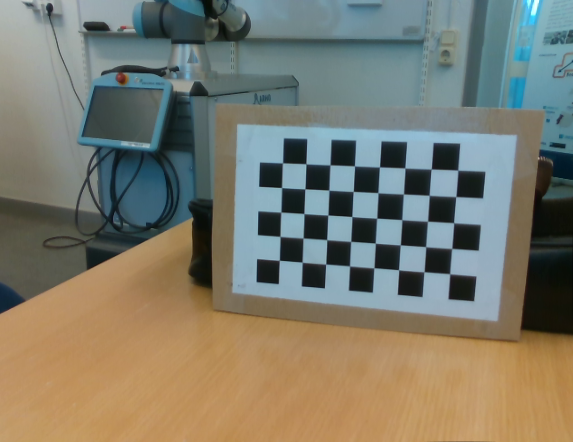
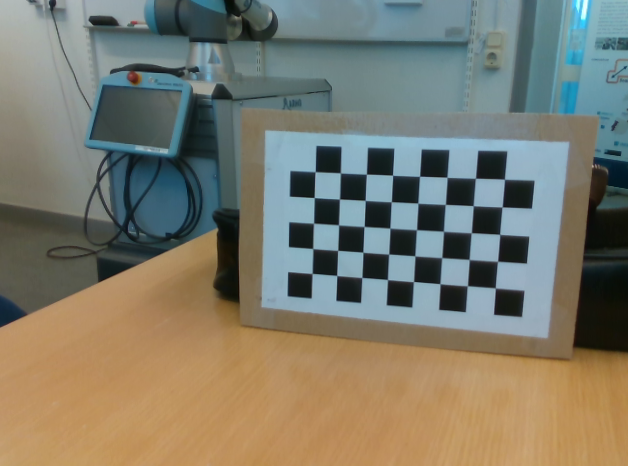
added calibration for 1920x1080 images

diff --git a/oskars_wacky_testbed/real_sense_camera/camera_calibration.py b/oskars_wacky_testbed/real_sense_camera/camera_calibration.py
@@ -5,42 +5,43 @@ import cv2
 import numpy as np
 from extract_realsense_parameters import ExtractParameters
 
+# lth board
+# chessboardSize = (5, 8)
+# size_of_chessboard_squares_mm = 20
 
-#lth board
-chessboardSize = (5,8)
-size_of_chessboard_squares_mm = 20
-
-# chessboardSize = (6,8)
-# size_of_chessboard_squares_mm = 15
-calib_data_path = "/home/oskarlarsson/Documents/Programs/Python_tests/real_sense_camera/calib_data_2_new_2"
-image_path = '/home/oskarlarsson/Documents/Programs/Python_tests/real_sense_camera/images_real_sense/*.png'
-
-
+chessboardSize = (7, 10)
+size_of_chessboard_squares_mm = 15
+calib_data_path = '/home/oskarlarsson/PycharmProjects/Vision-For-Robotic-RL/oskars_wacky_testbed/real_sense_camera/calib_data_1920'
+image_path = '/home/oskarlarsson/PycharmProjects/Vision-For-Robotic-RL/oskars_wacky_testbed/real_sense_camera/images_real_sense_1920/*.png'
 
 CHECK_DIR = os.path.isdir(calib_data_path)
-
 
 if not CHECK_DIR:
     os.makedirs(calib_data_path)
     print(f'"{calib_data_path}" Directory is created')
 
 else:
+    addition = 1
+    while os.path.isdir(calib_data_path + f'_{addition}'):
+        addition += 1
     print(f'"{calib_data_path}" Directory already Exists.')
+    new_path = calib_data_path + f'_{addition}'
+    os.makedirs(new_path)
+
+    print(f'"{new_path}" Directory is created')
 
 # termination criteria
 criteria = (cv2.TERM_CRITERIA_EPS + cv2.TERM_CRITERIA_MAX_ITER, 30, 0.001)
 
 # prepare object points, like (0,0,0), (1,0,0), (2,0,0) ....,(6,5,0)
 objp = np.zeros((chessboardSize[0] * chessboardSize[1], 3), np.float32)
-objp[:,:2] = np.mgrid[0:chessboardSize[0],0:chessboardSize[1]].T.reshape(-1,2)
-
+objp[:, :2] = np.mgrid[0:chessboardSize[0], 0:chessboardSize[1]].T.reshape(-1, 2)
 
 objp = objp * size_of_chessboard_squares_mm
 
 # Arrays to store object points and image points from all the images.
-objpoints = [] # 3d point in real world space
-imgpoints = [] # 2d points in image plane.
-
+objpoints = []  # 3d point in real world space
+imgpoints = []  # 2d points in image plane.
 
 calibration_images = glob.glob(image_path)
 
@@ -58,14 +59,14 @@ for calibration_image in calibration_images:
 
     # If found, add object points, image points (after refining them)
     if ret == True:
-        corners2 = cv2.cornerSubPix(gray_image, corners, (11,11), (-1,-1), criteria)
+        corners2 = cv2.cornerSubPix(gray_image, corners, (11, 11), (-1, -1), criteria)
         cv2.drawChessboardCorners(color_image, chessboardSize, corners2, ret)
         cv2.imshow('img', color_image)
         key = cv2.waitKey(0)
 
         if key == ord("y"):
             objpoints.append(objp)
-            
+
             imgpoints.append(corners)
             num_used_images += 1
         # Draw and display the corners
@@ -92,45 +93,37 @@ np.savez(
     tVector=tvecs,
 )
 
-
 ############## UNDISTORTION #####################################################
 
 img = cv2.imread('./images_real_sense/image5.png')
-h,  w = img.shape[:2]
-newCameraMatrix, roi = cv2.getOptimalNewCameraMatrix(cameraMatrix, dist, (w,h), 1, (w,h))
-
-
+h, w = img.shape[:2]
+newCameraMatrix, roi = cv2.getOptimalNewCameraMatrix(cameraMatrix, dist, (w, h), 1, (w, h))
 
 # Undistort
 dst = cv2.undistort(img, cameraMatrix, dist, None, newCameraMatrix)
 
 # crop the image
 x, y, w, h = roi
-dst = dst[y:y+h, x:x+w]
+dst = dst[y:y + h, x:x + w]
 cv2.imwrite('caliResult1.png', dst)
 
-
-
 # Undistort with Remapping
-mapx, mapy = cv2.initUndistortRectifyMap(cameraMatrix, dist, None, newCameraMatrix, (w,h), 5)
+mapx, mapy = cv2.initUndistortRectifyMap(cameraMatrix, dist, None, newCameraMatrix, (w, h), 5)
 dst = cv2.remap(img, mapx, mapy, cv2.INTER_LINEAR)
 
 # crop the image
 x, y, w, h = roi
-dst = dst[y:y+h, x:x+w]
+dst = dst[y:y + h, x:x + w]
 cv2.imwrite('caliResult2.png', dst)
-
-
-
 
 # Reprojection Error
 mean_error = 0
 
 for i in range(len(objpoints)):
     imgpoints2, _ = cv2.projectPoints(objpoints[i], rvecs[i], tvecs[i], cameraMatrix, dist)
-    error = cv2.norm(imgpoints[i], imgpoints2, cv2.NORM_L2)/len(imgpoints2)
+    error = cv2.norm(imgpoints[i], imgpoints2, cv2.NORM_L2) / len(imgpoints2)
     mean_error += error
 
-print( "total error: {}".format(mean_error/len(objpoints)) )
+print("total error: {}".format(mean_error / len(objpoints)))
 extract_params = ExtractParameters()
 extract_params.print_parameters()

diff --git a/oskars_wacky_testbed/real_sense_camera/capture_calibration_images.py b/oskars_wacky_testbed/real_sense_camera/capture_calibration_images.py
@@ -4,10 +4,11 @@ from cv2 import aruco as aruco
 import os
 import pyrealsense2 as rs
 
-#Setup
+# Setup
 pipeline = rs.pipeline()
 config = rs.config()
-CHESS_BOARD_DIM = (5,8)
+
+CHESS_BOARD_DIM = (7, 10)
 image_counter = 0
 
 # Get device product line for setting a supporting resolution
@@ -15,11 +16,12 @@ pipeline_wrapper = rs.pipeline_wrapper(pipeline)
 pipeline_profile = config.resolve(pipeline_wrapper)
 device = pipeline_profile.get_device()
 device_product_line = str(device.get_info(rs.camera_info.product_line))
-
+config.enable_stream(rs.stream.color, 1920, 1080, rs.format.rgb8, 30)
+config.enable_stream(rs.stream.depth, 640, 480, rs.format.z16, 30)
 found_rgb = False
 
 # checking if  images dir is exist not, if not then create images directory
-image_dir_path = "./images_real_sense"
+image_dir_path = "./images_real_sense_1920"
 
 CHECK_DIR = os.path.isdir(image_dir_path)
 # if directory does not exist create
@@ -35,9 +37,10 @@ criteria = (cv2.TERM_CRITERIA_EPS + cv2.TERM_CRITERIA_MAX_ITER, 30, 0.001)
 marker_dict = aruco.getPredefinedDictionary(aruco.DICT_4X4_50)
 param_markers = aruco.DetectorParameters()
 
+
 def detect_checker_board(image, grayImage, criteria, boardDimension):
     ret, corners = cv2.findChessboardCorners(grayImage, boardDimension)
-    
+
     if ret == True:
         corners1 = cv2.cornerSubPix(grayImage, corners, (3, 3), (-1, -1), criteria)
         image = cv2.drawChessboardCorners(image, boardDimension, corners1, ret)
@@ -84,15 +87,21 @@ try:
             2,
             cv2.LINE_AA,
         )
+        # Get the image dimensions
+        height, width = bgr_color_image.shape[:2]
 
-        cv2.imshow("Capture window", bgr_color_image)
+        # Downscale the image by 50%
+        new_width = int(width / 2)
+        new_height = int(height / 2)
+
+        cv2.imshow("Capture window", cv2.resize(bgr_color_image, (new_width, new_height)))
 
         # Apply colormap on depth image (image must be converted to 8-bit per pixel first)
         # depth_colormap = cv2.applyColorMap(cv2.convertScaleAbs(depth_image, alpha=0.03), cv2.COLORMAP_JET)
 
         # depth_colormap_dim = depth_colormap.shape
         # color_colormap_dim = rgb_color_image.shape
-        
+
         # images = np.hstack((recolored_image, depth_image))
         # cv2.imshow("stuff", images)
 
@@ -101,7 +110,7 @@ try:
         #     resized_color_image = cv2.resize(color_image, dsize=(depth_colormap_dim[1], depth_colormap_dim[0]), interpolation=cv2.INTER_AREA)
         #     recolored_image = cv2.cvtColor(resized_color_image, cv2.COLOR_RGB2BGR)
         #     # images = np.hstack((recolored_image, depth_colormap))
-            
+
         # else:
         #     images = np.hstack((color_image, depth_colormap))
 
